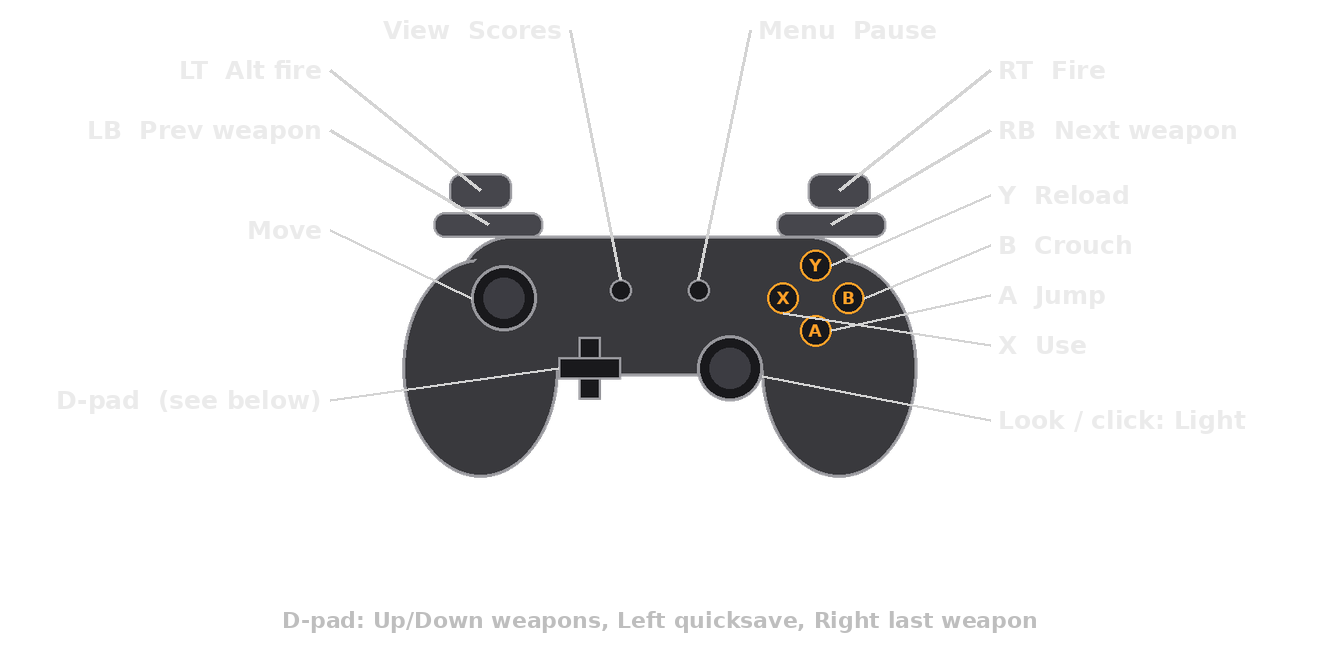
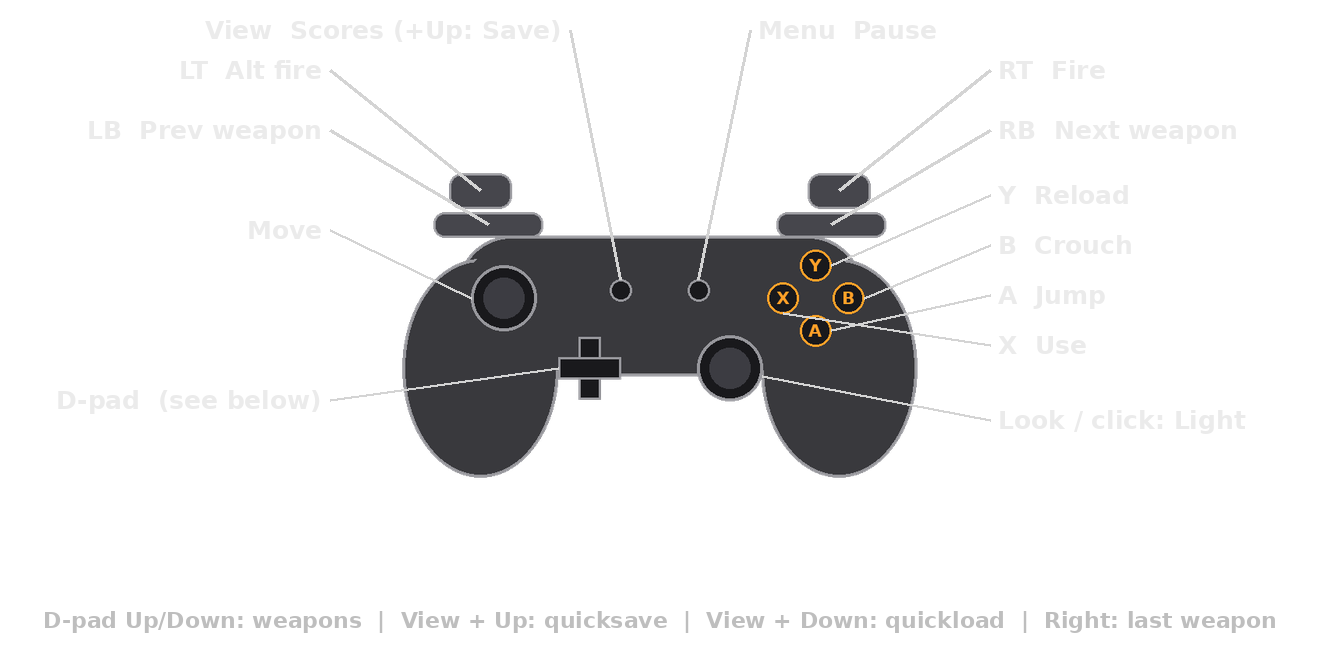
UWP: View + D-pad Up/Down quicksave/quickload, ragdoll menu toggle
Claude-Session: https://claude.ai/code/session_019pFWKeW4qoMRto4g7Q1drX

Changed region(s): [[0.0311, 0.9091, 0.9629, 0.9697]]

diff --git a/engine/client/input/in_joy.c b/engine/client/input/in_joy.c
@@ -94,6 +94,36 @@ static void Joy_XbCrouchDown_f( void )
 	}
 }
 
+// View + D-pad chords: View alone shows scores, View + Up quicksaves,
+// View + Down quickloads; Up/Down alone still change weapons
+static qboolean xb_view_held;
+
+static void Joy_XbViewDown_f( void )
+{
+	xb_view_held = true;
+	Cbuf_AddText( "+showscores\n" );
+}
+
+static void Joy_XbViewUp_f( void )
+{
+	xb_view_held = false;
+	Cbuf_AddText( "-showscores\n" );
+}
+
+static void Joy_XbDpadUp_f( void )
+{
+	Cbuf_AddText( xb_view_held ? "savequick\n" : "invprev\n" );
+}
+
+static void Joy_XbDpadDown_f( void )
+{
+	Cbuf_AddText( xb_view_held ? "loadquick\n" : "invnext\n" );
+}
+
+static void Joy_XbNop_f( void )
+{
+}
+
 static void Joy_XbRumble_f( void )
 {
 	// xb_rumble <low> <high> <ms> <right trigger> <left trigger>, 0..1
@@ -1075,10 +1105,21 @@ void Joy_AutoPreset( void )
 	// configs saved by earlier Xbox builds bind B straight to +duck,
 	// move it to +xbcrouch so the toggle crouch option works
 	{
-		const char *b = Key_GetBinding( K_B_BUTTON );
+		static const struct { int key; const char *from, *to; } migrate[] =
+		{
+			{ K_B_BUTTON,    "+duck",       "+xbcrouch" },
+			{ K_BACK_BUTTON, "+showscores", "+xbview" },
+			{ K_DPAD_UP,     "invprev",     "+xbdpadup" },
+			{ K_DPAD_DOWN,   "invnext",     "+xbdpaddown" },
+		};
 
-		if( b && !Q_stricmp( b, "+duck" ))
-			Key_SetBinding( K_B_BUTTON, "+xbcrouch" );
+		for( size_t i = 0; i < ARRAYSIZE( migrate ); i++ )
+		{
+			const char *b = Key_GetBinding( migrate[i].key );
+
+			if( b && !Q_stricmp( b, migrate[i].from ))
+				Key_SetBinding( migrate[i].key, migrate[i].to );
+		}
 	}
 #endif
 
@@ -1150,6 +1191,12 @@ void Joy_Init( void )
 	Cmd_AddCommand( "+xbcrouch", Joy_XbCrouchDown_f, "crouch, held or toggled (joy_crouch_toggle)" );
 	Cmd_AddCommand( "-xbcrouch", Joy_XbCrouchUp_f, "release crouch when not toggled" );
 	Cmd_AddCommand( "xb_rumble", Joy_XbRumble_f, "controller rumble: low high ms [right trigger] [left trigger]" );
+	Cmd_AddCommand( "+xbview", Joy_XbViewDown_f, "scores, and the modifier for View + D-pad quicksave/quickload" );
+	Cmd_AddCommand( "-xbview", Joy_XbViewUp_f, "" );
+	Cmd_AddCommand( "+xbdpadup", Joy_XbDpadUp_f, "previous weapon, or quicksave while View is held" );
+	Cmd_AddCommand( "-xbdpadup", Joy_XbNop_f, "" );
+	Cmd_AddCommand( "+xbdpaddown", Joy_XbDpadDown_f, "next weapon, or quickload while View is held" );
+	Cmd_AddCommand( "-xbdpaddown", Joy_XbNop_f, "" );
 #endif
 	Cvar_RegisterVariable( &joy_side );
 	Cvar_RegisterVariable( &joy_forward );

diff --git a/uwp/tools/make_controller_image.py b/uwp/tools/make_controller_image.py
@@ -83,7 +83,7 @@ label((cx - 230, cy - 178), (330, 70), 'LT  Alt fire', 'r')
 label((cx - 220, cy - 134), (330, 130), 'LB  Prev weapon', 'r')
 label((ls[0] - 42, ls[1]), (330, 230), 'Move', 'r')
 label((dp[0] - 40, dp[1]), (330, 400), 'D-pad  (see below)', 'r')
-label((view[0], view[1] - 14), (cx - 90, 30), 'View  Scores', 'r')
+label((view[0], view[1] - 14), (cx - 90, 30), 'View  Scores (+Up: Save)', 'r')
 # right side
 label((cx + 230, cy - 178), (W - 330, 70), 'RT  Fire', 'l')
 label((cx + 220, cy - 134), (W - 330, 130), 'RB  Next weapon', 'l')
@@ -94,7 +94,7 @@ label((fb[0] - 42, fb[1] + 20), (W - 330, 345), 'X  Use', 'l')
 label((rs[0] + 42, rs[1] + 10), (W - 330, 420), 'Look / click: Light', 'l')
 label((menu[0], menu[1] - 14), (cx + 90, 30), 'Menu  Pause', 'l')
 
-d.text((cx, H - 40), 'D-pad: Up/Down weapons, Left quicksave, Right last weapon', font=small, fill=(190, 190, 190, 255), anchor='mm')
+d.text((cx, H - 40), 'D-pad Up/Down: weapons  |  View + Up: quicksave  |  View + Down: quickload  |  Right: last weapon', font=small, fill=(190, 190, 190, 255), anchor='mm')
 
 os.makedirs(os.path.dirname(out), exist_ok=True)
 img.save(out)
